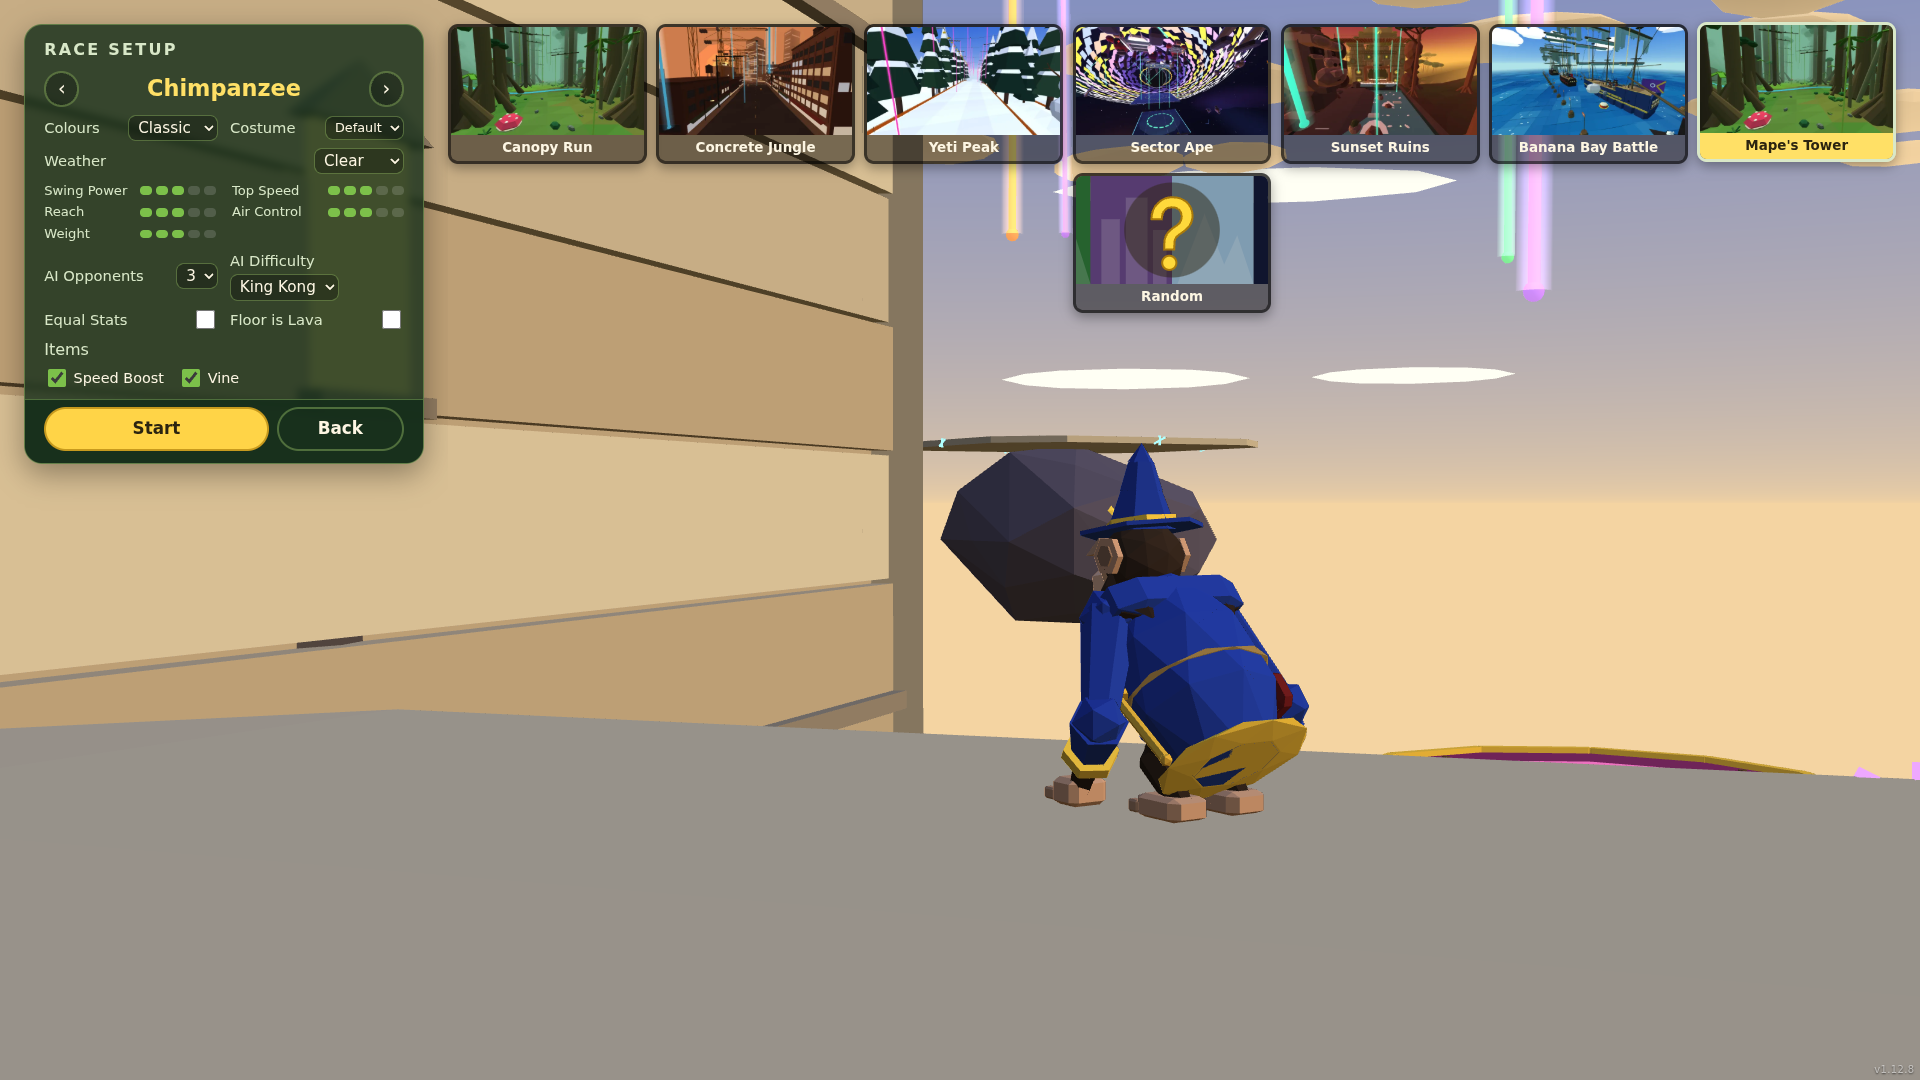
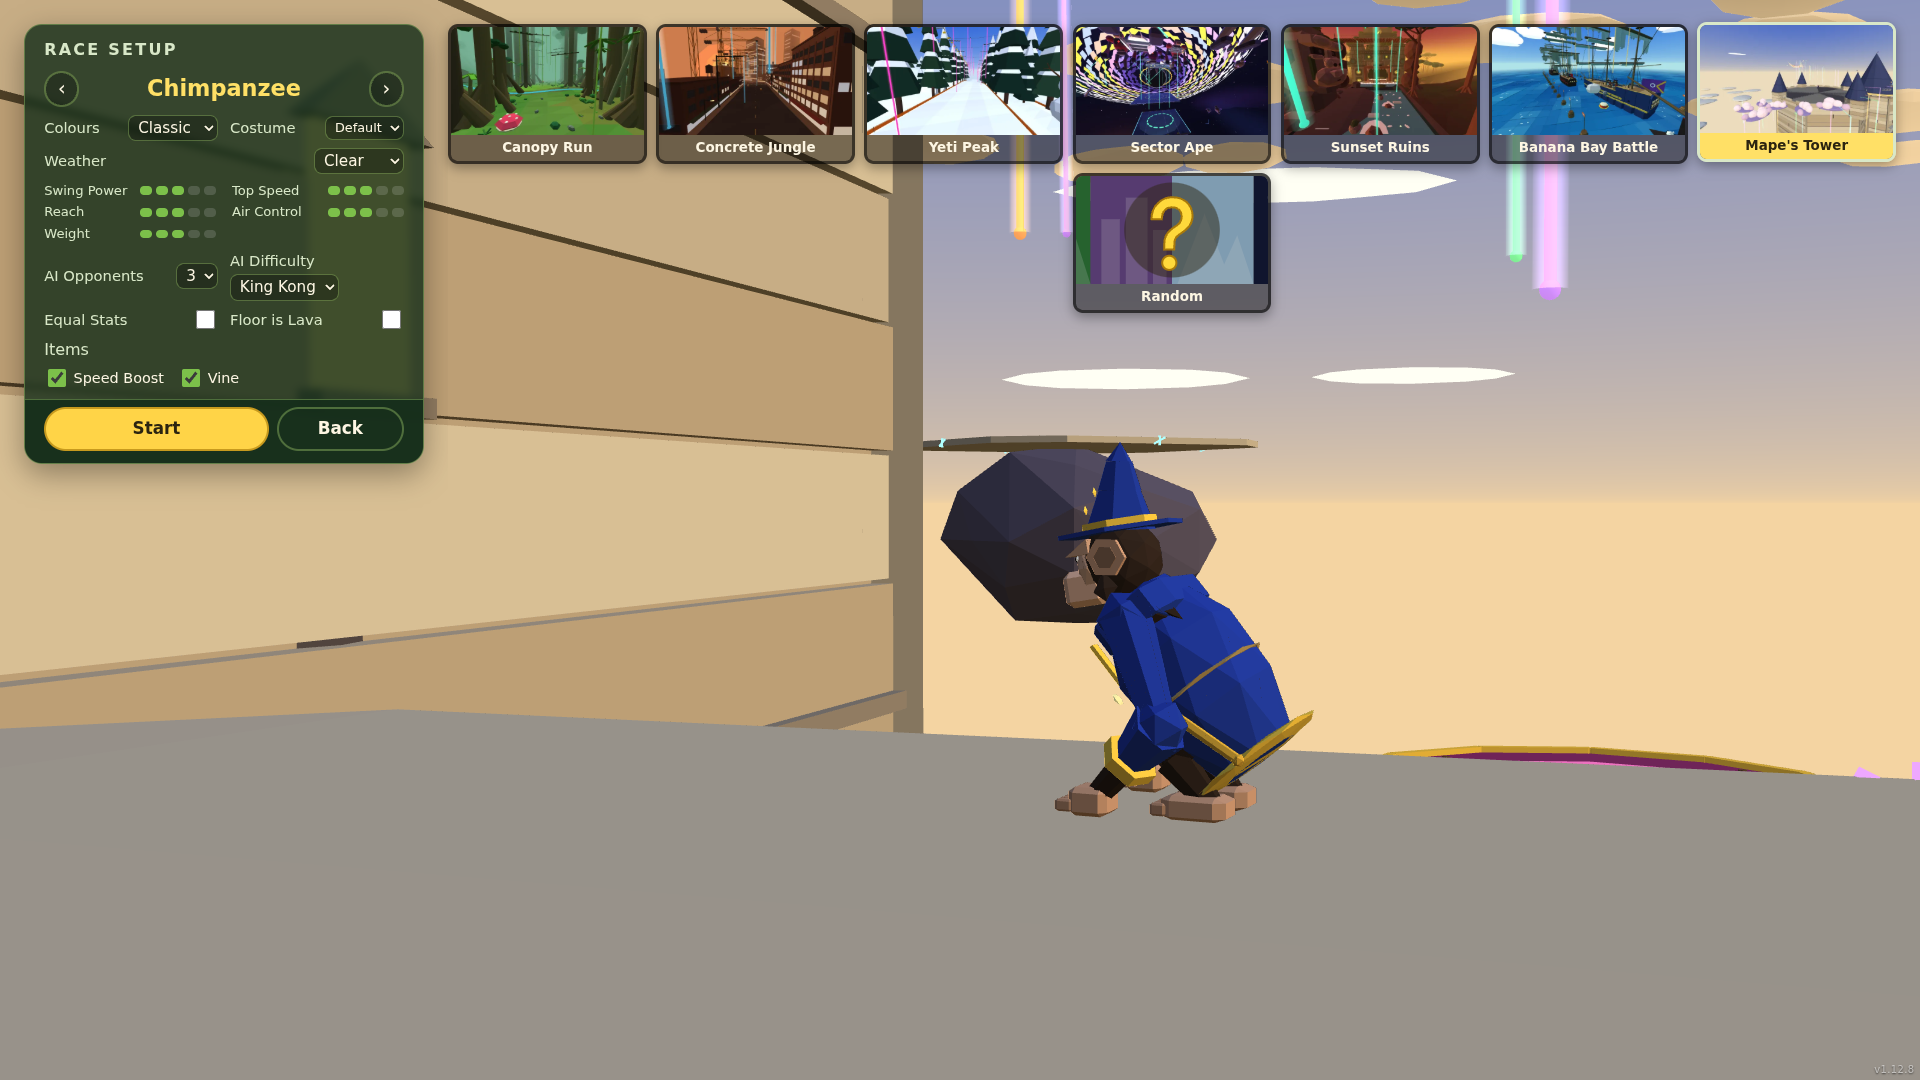
Mape's Tower: catch-up crimson, beams in title and lobby, TL rows, shots

diff --git a/crates/core/src/towerscape/lobby.rs b/crates/core/src/towerscape/lobby.rs
@@ -1,9 +1,9 @@
-//! Mape's Tower's menus (step 9): the lobby spot on a high bridge, the
-//! keep's wall beside the ape and the sky, the cloud band and the
-//! sub-towers behind it, and the title's flyover rising round the tower to
-//! the summit and the tear.
+//! Mape's Tower's menus (step 9): the lobby spot on the start deck, the
+//! keep's wall beside the ape and the haze and the beams behind it, and
+//! the title's flyover rising round the tower to the summit and the
+//! tear (TL1, TL2).
 //!
-//! The lobby ape stands on the highest branch bridge under the cloud band,
+//! The lobby ape stands near the start deck's far edge (16 m up),
 //! the camera behind it looking along the keep's wall (the keep on the
 //! left). `app::menu_dock` turns that camera so the keep's edge
 //! ([`landmark`]) sits between the docked menus and the ape, as Sunset
@@ -96,7 +96,6 @@ pub fn hidden_in_lobby(c: &Course, t: &TowerLayout, i: usize) -> bool {
         .is_some_and(|v| !v.anchor.sub(feet).flat().longer_than(LOBBY_CLEAR))
 }
 
-
 /// What the lobby frames between the menus and the ape: the keep's edge
 /// as seen from the ape (where the wall meets the sky ahead), a little
 /// over the feet.
@@ -139,7 +138,7 @@ pub fn lobby_camera(feet: V3, look: V3) -> Camera {
     lobby_camera_at(feet, look, LOBBY_BACK)
 }
 
-/// The menus' preview on Mape's Tower: the ape on the bridge, the camera
+/// The menus' preview on Mape's Tower: the ape on the start deck, the camera
 /// behind it looking along the keep's wall.
 pub fn preview(c: &Course) -> (V3, i32, Camera) {
     let (feet, look) = match c.tower.as_deref() {
@@ -240,15 +239,27 @@ mod tests {
             // the keep on the camera's left
             let k = t.keep.centre;
             let to_keep = v3(k.x, feet.y, k.z).sub(feet);
-            assert!(right_of(look).dot(to_keep) < 0, "seed {seed}: keep on the left");
+            assert!(
+                right_of(look).dot(to_keep) < 0,
+                "seed {seed}: keep on the left"
+            );
             // the landmark is on the keep's wall, ahead of the ape
             let mark = landmark(&c, t);
             let r = v3(mark.x - k.x, 0, mark.z - k.z).len();
-            assert!((r - t.keep.radius).abs() < cm(20), "seed {seed}: mark off the wall");
-            assert!(mark.sub(feet).flat().dot(look) > 0, "seed {seed}: mark behind");
+            assert!(
+                (r - t.keep.radius).abs() < cm(20),
+                "seed {seed}: mark off the wall"
+            );
+            assert!(
+                mark.sub(feet).flat().dot(look) > 0,
+                "seed {seed}: mark behind"
+            );
         }
         let c = Map::Tower.course();
-        assert_eq!(crate::scene::preview(&c).feet, lobby_spot(&c, c.tower.as_deref().unwrap()).0);
+        assert_eq!(
+            crate::scene::preview(&c).feet,
+            lobby_spot(&c, c.tower.as_deref().unwrap()).0
+        );
     }
 
     #[test]
@@ -270,19 +281,34 @@ mod tests {
                 // clear of the keep and every sub-tower by 10 m, on the
                 // climb's side of the mirror
                 let r = v3(e.x - k.x, 0, e.z - k.z).len();
-                assert!(r > t.keep.radius + int(10), "seed {seed} tick {tick}: in the keep");
+                assert!(
+                    r > t.keep.radius + int(10),
+                    "seed {seed} tick {tick}: in the keep"
+                );
                 for b in &t.branches {
                     let s = b.sub.centre;
                     let d = v3(e.x - s.x, 0, e.z - s.z).len();
-                    assert!(d > b.sub.radius + int(10), "seed {seed} tick {tick}: in a sub-tower");
+                    assert!(
+                        d > b.sub.radius + int(10),
+                        "seed {seed} tick {tick}: in a sub-tower"
+                    );
                 }
-                assert!(e.x < t.zipper.mirror_x - int(5), "seed {seed} tick {tick}: in the zipper");
+                assert!(
+                    e.x < t.zipper.mirror_x - int(5),
+                    "seed {seed} tick {tick}: in the zipper"
+                );
             }
             // it ends over the summit, looking at the tear
             let end = flyover_camera(&c, lap - 1, 0);
-            assert!(end.eye.y > k.y + t.keep.height, "seed {seed}: ends over the top");
+            assert!(
+                end.eye.y > k.y + t.keep.height,
+                "seed {seed}: ends over the top"
+            );
             let to_tear = t.summit.tear.sub(end.eye).norm();
-            assert!(end.fwd.dot(to_tear) > ONE * 99 / 100, "seed {seed}: ends on the tear");
+            assert!(
+                end.fwd.dot(to_tear) > ONE * 99 / 100,
+                "seed {seed}: ends on the tear"
+            );
         }
     }
 }

diff --git a/crates/core/src/app/menu_dock.rs b/crates/core/src/app/menu_dock.rs
@@ -539,7 +539,7 @@ mod tests {
     }
 
     #[test]
-    fn on_mapes_tower_the_keeps_edge_shows_between_the_menus_and_the_ape_on_the_bridge() {
+    fn on_mapes_tower_the_keeps_edge_shows_between_the_menus_and_the_ape_on_the_start_deck() {
         for (w, h) in [(1920, 1080), (1366, 768), (1280, 720)] {
             for (name, a) in screens_on("tower", w, h) {
                 assert_eq!(a.map(), Map::Tower, "{name}");

diff --git a/crates/core/src/scene.rs b/crates/core/src/scene.rs
@@ -2905,7 +2905,10 @@ mod tests {
             Spell::Abyss,
         ] {
             let (beam, _) = crate::towermodels::beam_look(s);
-            assert!(far(c, beam) > ONE / 2, "{c:?} too near the {s:?} beam {beam:?}");
+            assert!(
+                far(c, beam) > ONE / 2,
+                "{c:?} too near the {s:?} beam {beam:?}"
+            );
         }
     }
 

diff --git a/SECOND-ORDER.md b/SECOND-ORDER.md
@@ -672,3 +672,11 @@ One row per assumption, surprise or open item. **Kind** is *divergence* (what wa
 | TA4 | test | Broken once each (rule 6). | The orb's vines left without their rune → `every_hanger_has_its_caster_drawn_at_its_beam` "vine 59 (Orb) has no caster"; the budget at once lowered to 4,000 → `the_scenery_stays_in_budget` "5210 shapes drawn at once" (before the pace fix). Restored. | | done |
 | TA5 | finding | Layout oddities seen while placing (for the course agent). | After the pace fix, the summit's balconies stand at y 123–130 over a keep 102 m tall (nothing under them), and their anchors run out along the walk to the tear, up to 54 m from the mage (vine 57, balcony 36): the beam is drawn that long. The caster test allows 60 m. Many balconies come in pairs under 3 m apart (drawn once). | | open |
 | TA6 | person: look | Shots (1920×1080) in `notes/tower-shots/art/`: midclimb (orbit), room, summit (the tear and the banana behind), zipper (orbit). Weakest: the rift's void reads as a purple staircase from the side (as TZ3); thin white lines float in the void and sky (not from the scenery; likely the item or speed-line markers, unchecked); the room is seen from outside (no cutaway); the eldritch banana is drawn from anywhere on the climb, not only through the tear. | | open |
+| TL1 | divergence | The lobby spot (step 9). | Tried first: the highest branch bridge under the cloud band (deck top 65 m), looking along the keep's wall. The view was solid brown: the bridge's drawn masonry stands above its walkable deck there (the course's deck at 65 m, the line rising 65 to 69 m), so the low camera sat inside the stone. The start deck (16 m up, outside the keep) was the fallback that works. | `towerscape/lobby.rs` `lobby_spot`: the start deck, 1.8 m in from its far edge, the camera looking along the keep's wall turned 35° in toward it (the keep on the left), so `menu_dock::tower_camera` (the Bay's kind: low, level, backed off where the open part is narrow) turns the keep's edge (`landmark`) between the docked panels and the ape. The start's beams within 14 m of the feet are left out of the lobby (`hidden_in_lobby`), as the Bay's start row (BL2). | done |
+| TL2 | decision | The title flyover (step 9). | The stand-in glided 14 m over the centreline, through the keep's bridges and sub-towers. | `lobby::flyover_camera`: a helix round the keep 101 m from its axis (past every sub-tower), 1.5 turns rising from 12 m to 25 m over the keep's top at 6 m/s (about 160 s a lap), looking in at the keep 8 m under the eye; over the last 30% the look swings (smoothstep) onto the tear, ending on the west side over the battlements. The all-maps sway test (`the_title_flyover_through_space_glides_without_shaking`: ≤ 4 m/s², ≤ 30°/s) passes. The tear itself was not in the shots: the summit is being redone in parallel; the card shows the battlements, the cloud band and the eldritch banana. | done |
+| TL3 | fix | Catch-up colour (step 13). | The stand-in catch-up colour (255, 130, 30) was the Fire beam's colour (paled: 255, 163, 86; distance 89 of 765), so a catch-up beam could not be told from a fire mage's. | Now a deep crimson (230, 20, 30), far from all seven spells' beams; test `on_the_tower_the_catch_up_colour_stands_apart_from_every_spell_beam`. The colourblind catch-up (230, 70, 0) is unchanged (beams are the shared vivid green there). | done |
+| TL4 | fix | Beams in the title and the menus (step 13). | `scene::vines_where` (the title flyover and the lobby preview) drew the tower's vines in the shared green, not as spell beams. | It applies `towerscape::beam_vine` outside the colourblind mode, as the race does. | done |
+| TL5 | finding | Colourblind and JOJO MODE (step 13). | Shots `notes/tower-shots/lobby/blind.png` (`?tile=map=tower,blind=on`): world muted, sky grey, beams the vivid green, the item flower violet: reads. `jojo.png` (`jojo=on`) is at the start, where JOJO MODE has nothing to show (it follows speed); the sky, dome, stars and cloud sea follow both modes through `bayscape::follow` (TS rows). Not shot at speed. | | done |
+| TL6 | test | Rule 6 for the TL tests. | `LOBBY_FROM_EDGE` 0 → `the_lobby_ape_stands_on_the_start_deck_near_its_edge_with_the_keep_beside_it` "seed 1: on the deck"; `FLY_OUT` 10 m → `the_flyover_rises_round_the_keep_clear_of_the_towers_to_the_tear` "seed 1 tick 0: in the keep"; the old orange → `on_the_tower_the_catch_up_colour_stands_apart_from_every_spell_beam` "[65536, 33410, 7710] too near the Fire beam"; `LOOK_IN` 25° (the turn clamps) → `on_mapes_tower_the_keeps_edge_shows_between_the_menus_and_the_ape_on_the_start_deck` "lobby 1280x720: keep's edge at 69%, menus to 68%, ape from 77%". `the_joiner_sees_the_hosts_tower_lobby_camera` not broken (as BL4). | restored | done |
+| TL7 | fix | `scripts/map_cards.py` could not find the map cards. | It waited for `.tile` under `setup.map`; since the strip (T82) they are `.card`. | Selector `:is(.tile, .card)`. `CARDS["tower"] = 930` (near the flyover's top). | done |
+| TL8 | person: look | The lobby view. | Shots in `notes/tower-shots/lobby/` (setup-1920, setup-1280x720, online-1920x1080/1366x768/1280x720): the keep's wall on the left, the ape against the honey haze and the beams, but the start deck's grey fills the lower third and a dark floating rock (a pad's underside?) stands just behind the ape. The online lobby at 1280×720 puts the map strip over the ape (all maps: the strip's grid there). Not "the map at its best": the clouds, dragons and turrets are all higher than a level camera at 16 m sees. Better: a spot part-way up once a bridge's drawn deck matches its walkable one (TL1), or a slight upward look. | For the person: keep the start deck, or a high bridge after the fix? | person: look |

diff --git a/notes/tower-progress.md b/notes/tower-progress.md
@@ -12,12 +12,12 @@ The standard map-build steps (MAPS.md "Build steps"), one row each. Status is on
 | 6 | Course layout | Done | 674 m climb (race 1,348 m): keep circle 55 m, 4 spirals (540° round), 3 straight branches (90° round sub-towers), trampoline room, clouds, summit turns out from the keep, mirrored zipper with longer beams (TC1, TC5); any-direction beams (TC2) |
 | 7 | Map rules | Done | Pads aimed at the next station; AI bounds/re-pick (TC3); summoned vines placed by their own coil; CLIMB_LIFT stays 3 m/s (the climb is now the faster half) (TC5) |
 | 8 | Art placed on the course | Done | `towerscape/art.rs`, all from the layout (TA1); 3D culling, climb and zipper drawn apart (TA2); 8,691 shapes, 4,896 at most at once (TA3); shots in notes/tower-shots/art/ |
-| 9 | Lobby spot and flyover | Not started |  |
+| 9 | Lobby spot and flyover | Waiting on you | Lobby on the start deck, keep beside the ape (TL1); flyover a helix up round the keep ending over the battlements, looking at the tear (TL2); shots notes/tower-shots/lobby/. The view is plain (TL8): pick start deck or a high bridge |
 | 10 | AI validation | Done | 16 layouts: Sloth 107.2 s, Monkey 92.0, Ape 77.3, King Kong 64.5 (max 137.9 s); ordering test `tower_difficulties_are_ordered_and_spaced` (TC5) |
 | 11 | Medal times | Done | Lemur 58.42 s best (58.4–67.7 by kind): Author 0:58, Gold 1:05, Silver 1:15, Bronze 1:30; test `the_tower_medals_follow_its_time_trial` (TM1) |
 | 12 | Step and frame cost | In progress | Step: worst 4.0 ms, median 111 µs (Ruins 2.7–3.9 ms / 56 µs, Bay 3.3 ms / 67 µs); fix suggested for `nearest_3d` (TM2). Frame (scenery) cost: art agent |
-| 13 | Colourblind and JOJO MODE | Not started |  |
-| 14 | Map card | Not started |  |
+| 13 | Colourblind and JOJO MODE | Done | Catch-up now crimson, apart from every beam (TL3); title and lobby draw beams (TL4); shots blind.png, jojo.png (TL5) |
+| 14 | Map card | Done | `data/maps/tower.webp` from the flyover at 930 m: battlements, cloud band, eldritch banana (TL7); on the Race Setup strip |
 | 15 | Screenshots at 1920×1080 | Not started |  |
 | 16 | Other maps unchanged | Not started |  |
 | 17 | Docs | Not started |  |
